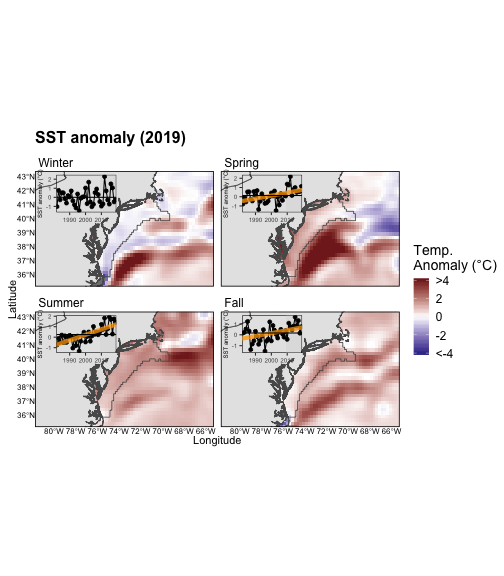
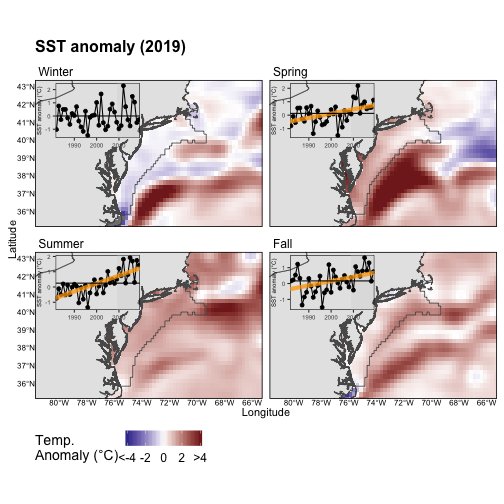
formatting, add SOE feature image

diff --git a/docs/20200407_MAFMC_Gaichas.html b/docs/20200407_MAFMC_Gaichas.html
@@ -512,7 +512,7 @@ Change from 2019: bluefish biomass below threshold
 ![Summary of single species status for MAFMC and jointly managed stocks (Goosefish and Spiny dogfish).](20200407_MAFMC_Gaichas_files/figure-html/stock-status-1.png)
 
 ---
-## Updated feeding groups to look at aggregate biomass
+## Updated fish feeding groups to look at aggregate biomass
 
 &lt;table class="table" style="font-size: 12px; margin-left: auto; margin-right: auto;"&gt;
 &lt;caption style="font-size: initial !important;"&gt;Feeding groups and management bodies.&lt;/caption&gt;
@@ -833,16 +833,14 @@ Bottom temperature is increasing
 ## Seasonal temperature and phytoplankton in 2019
 .pull-left-60[
 Sea surface temperature anomaly and trends
-![MAB seasonal sea surface time series overlaid onto 2018 seasonal spatial anomalies.](20200407_MAFMC_Gaichas_files/figure-html/MAB-SST-insitu-1.png)
+![MAB seasonal sea surface time series overlaid onto 2019 seasonal spatial anomalies.](20200407_MAFMC_Gaichas_files/figure-html/MAB-SST-insitu-1.png)
 
 ]
 
 .pull-right-40[
-.center[
 Satellite chlorophyll a anomaly
 
 ![:img Map of 2019 chlorophyll a anomalies by season from satellite data, 100%](EDAB_images/CHL_SEASONAL_ANOMS_2019.png)
-]
 ]
 
 
@@ -865,13 +863,11 @@ Satellite chlorophyll a anomaly
 ]
 
 ---
-## Changing patterns primary production
+## Changing patterns in primary production
 
 ![Monthly primary production trends show the annual cycle (i.e. the peak during the summer months) and the changes over time for each month.](20200407_MAFMC_Gaichas_files/figure-html/PP-OCCI-1.png)
 
-More production in summer months due to warmer temperatures and increased bacterial remineralization and nutrient recycling 
-
-This increased productivity is most likely from smaller-celled species that contribute less to fish production 
+More summer production (warmer, nutrient recycling), but likely smaller-celled species that contribute less to fish production 
 
 ---
 ## SOE Take Home Messages  
@@ -1435,7 +1431,14 @@ Management elements updated from original 2017 risk assessment; added risk ranki
   
 * [ERDDAP server](https://comet.nefsc.noaa.gov/erddap/index.html)
 
+* [NOAA SOE summary webpage](https://www.fisheries.noaa.gov/new-england-mid-atlantic/ecosystems/state-ecosystem-reports-northeast-us-shelf)
+
 * Slides available at https://noaa-edab.github.io/presentations/
+
+
+Contacts:  &lt;sarah.gaichas@noaa.gov&gt;, &lt;sean.lucey@noaa.gov&gt;, &lt;scott.large@noaa.gov&gt;  
+
+
 
 ---
 ## Contributors - THANK YOU!
@@ -1492,32 +1495,10 @@ Mark Wuenschel
 ]
 
 ---
-class: inverse
-background-image: url("EDAB_images/IMG_2809.jpg")
-background-size: cover
+background-image: url("EDAB_images/SOE_feature_image.png")
+background-size: contain
 
-## Questions? Thank you!
-
-&amp;nbsp;
-
-&amp;nbsp;
-
-&amp;nbsp;
-
-&amp;nbsp;
-
-&amp;nbsp;
-
-&amp;nbsp;
-
-&amp;nbsp;
-
-.pull-left[
-Contacts:  
-]
-.pull-right[
-sarah.gaichas@noaa.gov  
-]
+.footnote[Questions? Thank you!]
     </textarea>
 <style data-target="print-only">@media screen {.remark-slide-container{display:block;}.remark-slide-scaler{box-shadow:none;}}</style>
 <script src="https://remarkjs.com/downloads/remark-latest.min.js"></script>
